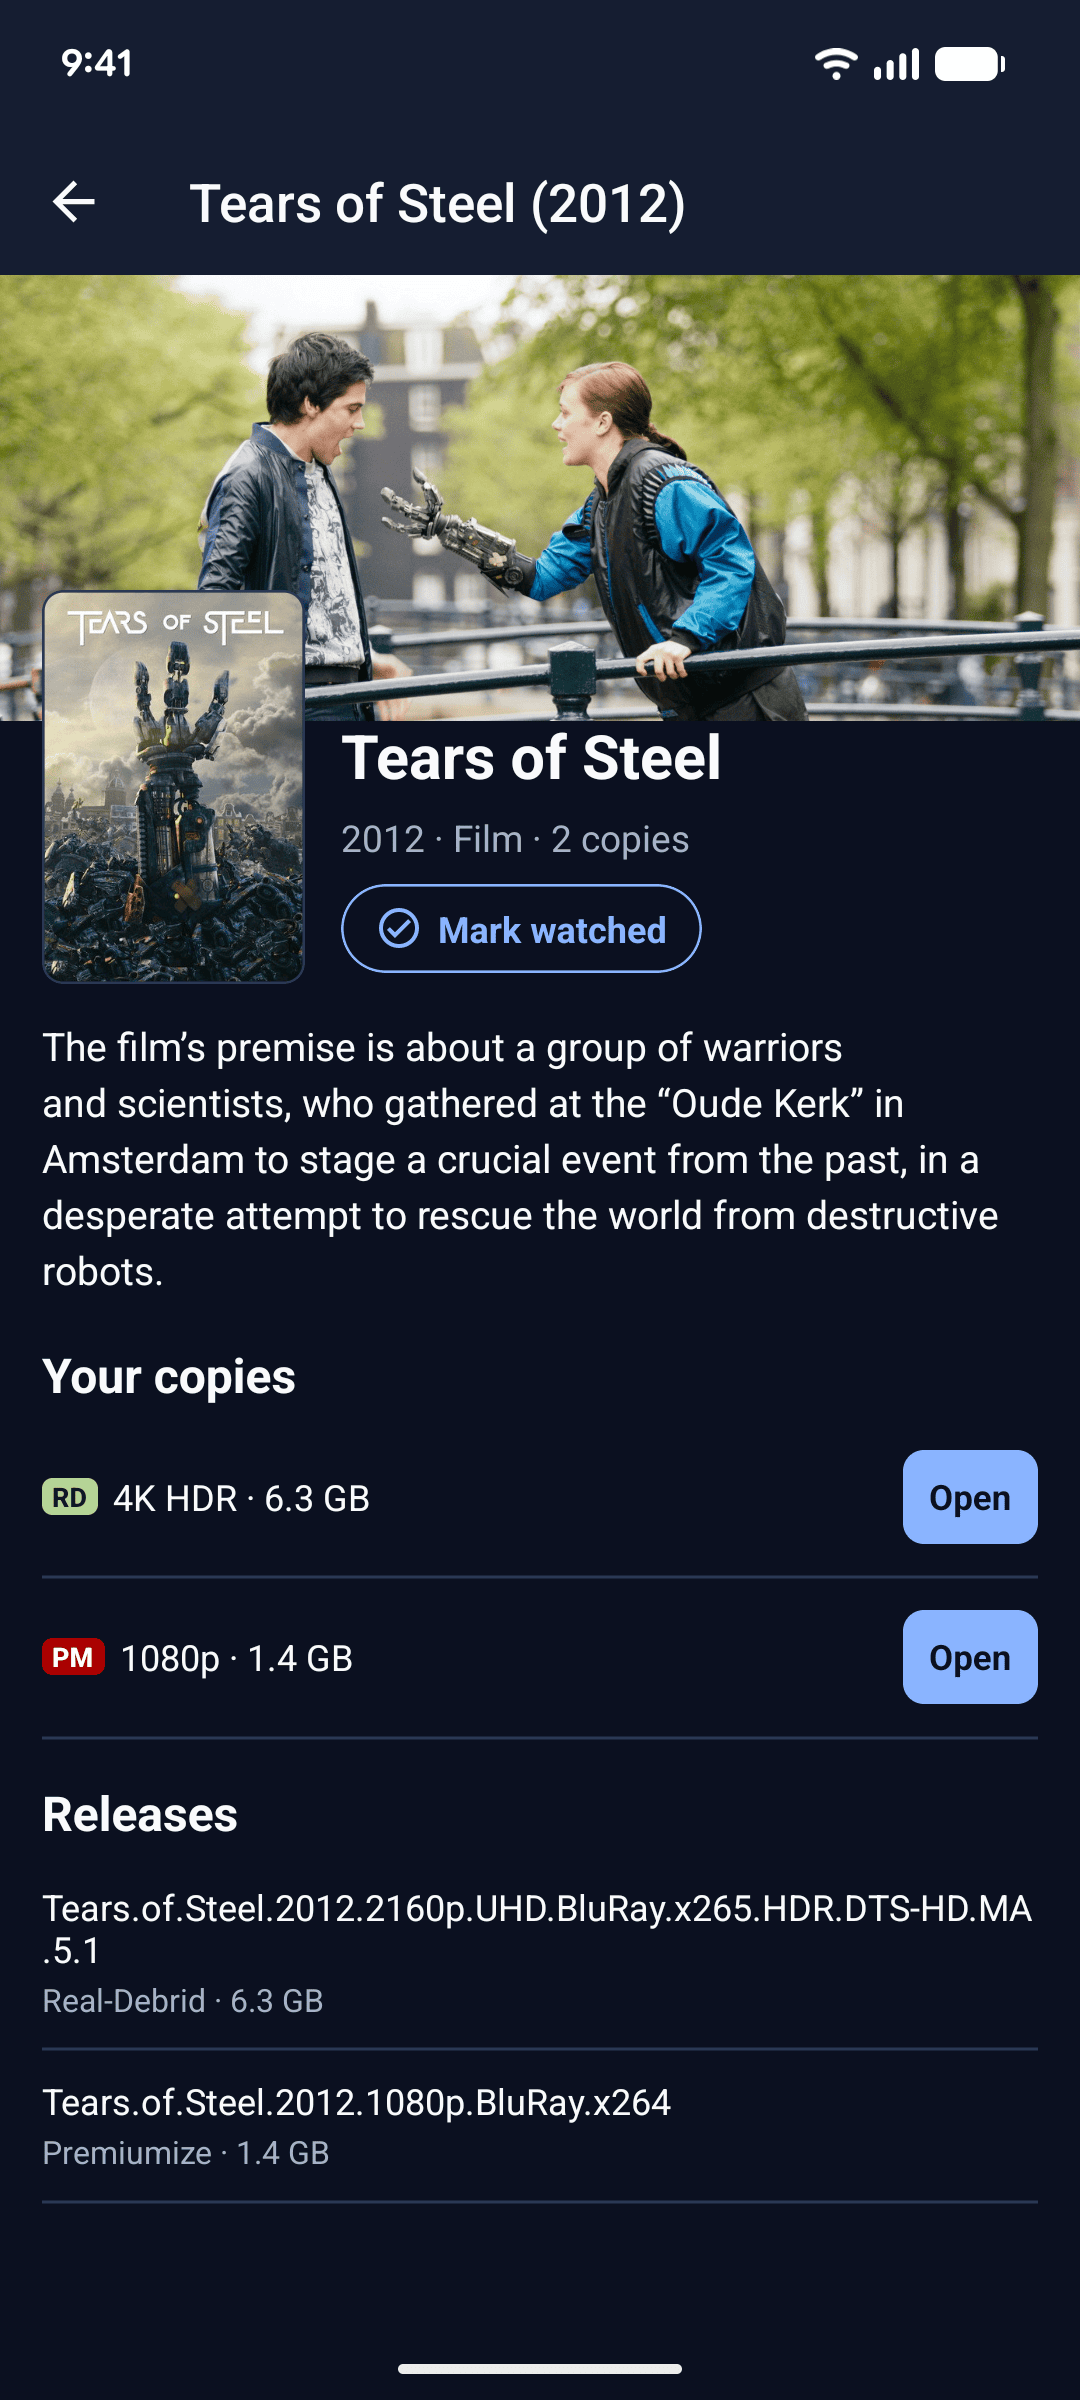
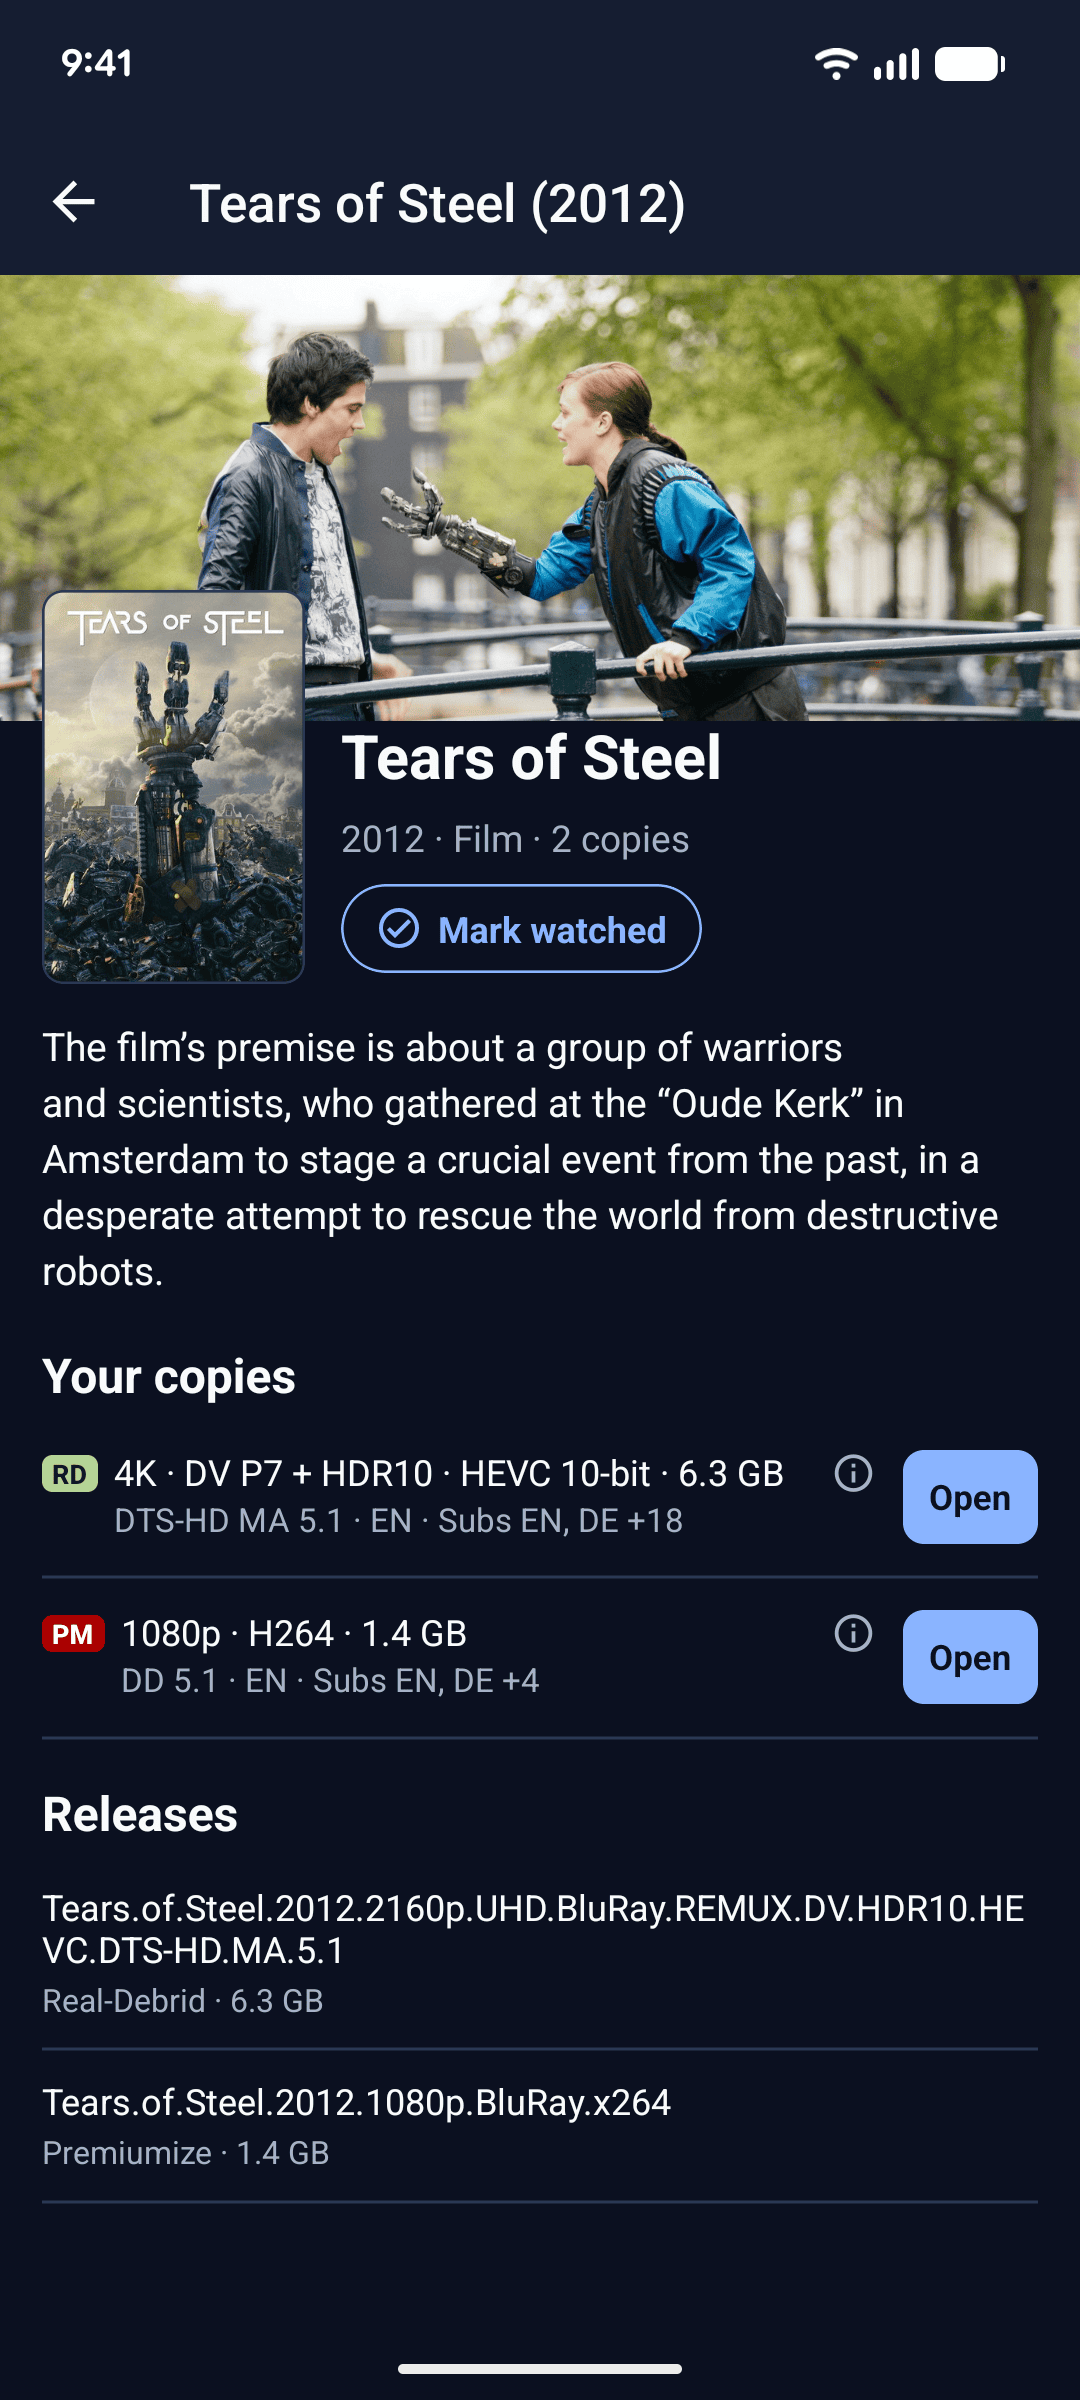
docs: README phone shots of a title page's per-copy media details and a copy's details sheet

diff --git a/README.md b/README.md
@@ -434,8 +434,10 @@ Settings (Infuse, VLC and the rest of DMM web's list).
 
 Release builds (click one to open it). The libraries show Blender open movies
 (CC BY) from a screenshot fixture of the real screens; the two sign-in screens are
-the app as it ships. There is no Search shot: its results are DMM's live search,
-with commercial posters.
+the app as it ships. Tears of Steel's media details come from probes the fixture
+builds from the film's real streams (its 5.1 mix, 22 subtitle languages), with the
+HDR its release names claim. There is no Search shot: its results are DMM's live
+search, with commercial posters.
 
 ### Phones
 
@@ -444,7 +446,8 @@ Pixel 6 (Android 16) and iPhone 17 Pro simulator (iOS 26.5).
 <p>
 <a href="docs/screenshots/android-phone-home.png"><img src="docs/screenshots/android-phone-home.png" width="200" alt="Home on an Android phone: Continue Watching with how much is left of each film, then Recently Added"></a>
 <a href="docs/screenshots/android-phone-library.png"><img src="docs/screenshots/android-phone-library.png" width="200" alt="Library on an Android phone: the films as posters, with how many copies of each"></a>
-<a href="docs/screenshots/android-phone-title.png"><img src="docs/screenshots/android-phone-title.png" width="200" alt="Tears of Steel's page: backdrop, plot, a 4K and a 1080p copy to open, and their releases"></a>
+<a href="docs/screenshots/android-phone-title.png"><img src="docs/screenshots/android-phone-title.png" width="200" alt="Tears of Steel's page: a 4K Dolby Vision copy and a 1080p copy, each with what ffprobe found in it (picture, sound, subtitles) and Open, then their releases"></a>
+<a href="docs/screenshots/android-phone-copy-details.png"><img src="docs/screenshots/android-phone-copy-details.png" width="200" alt="The 4K copy's media details: the file, the picture with its Dolby Vision profile, three audio tracks and the first of 22 subtitle tracks"></a>
 <a href="docs/screenshots/iphone-title.png"><img src="docs/screenshots/iphone-title.png" width="200" alt="Sintel's page on an iPhone"></a>
 <a href="docs/screenshots/iphone-sign-in.png"><img src="docs/screenshots/iphone-sign-in.png" width="200" alt="Sign-in on an iPhone, one card per provider"></a>
 </p>
